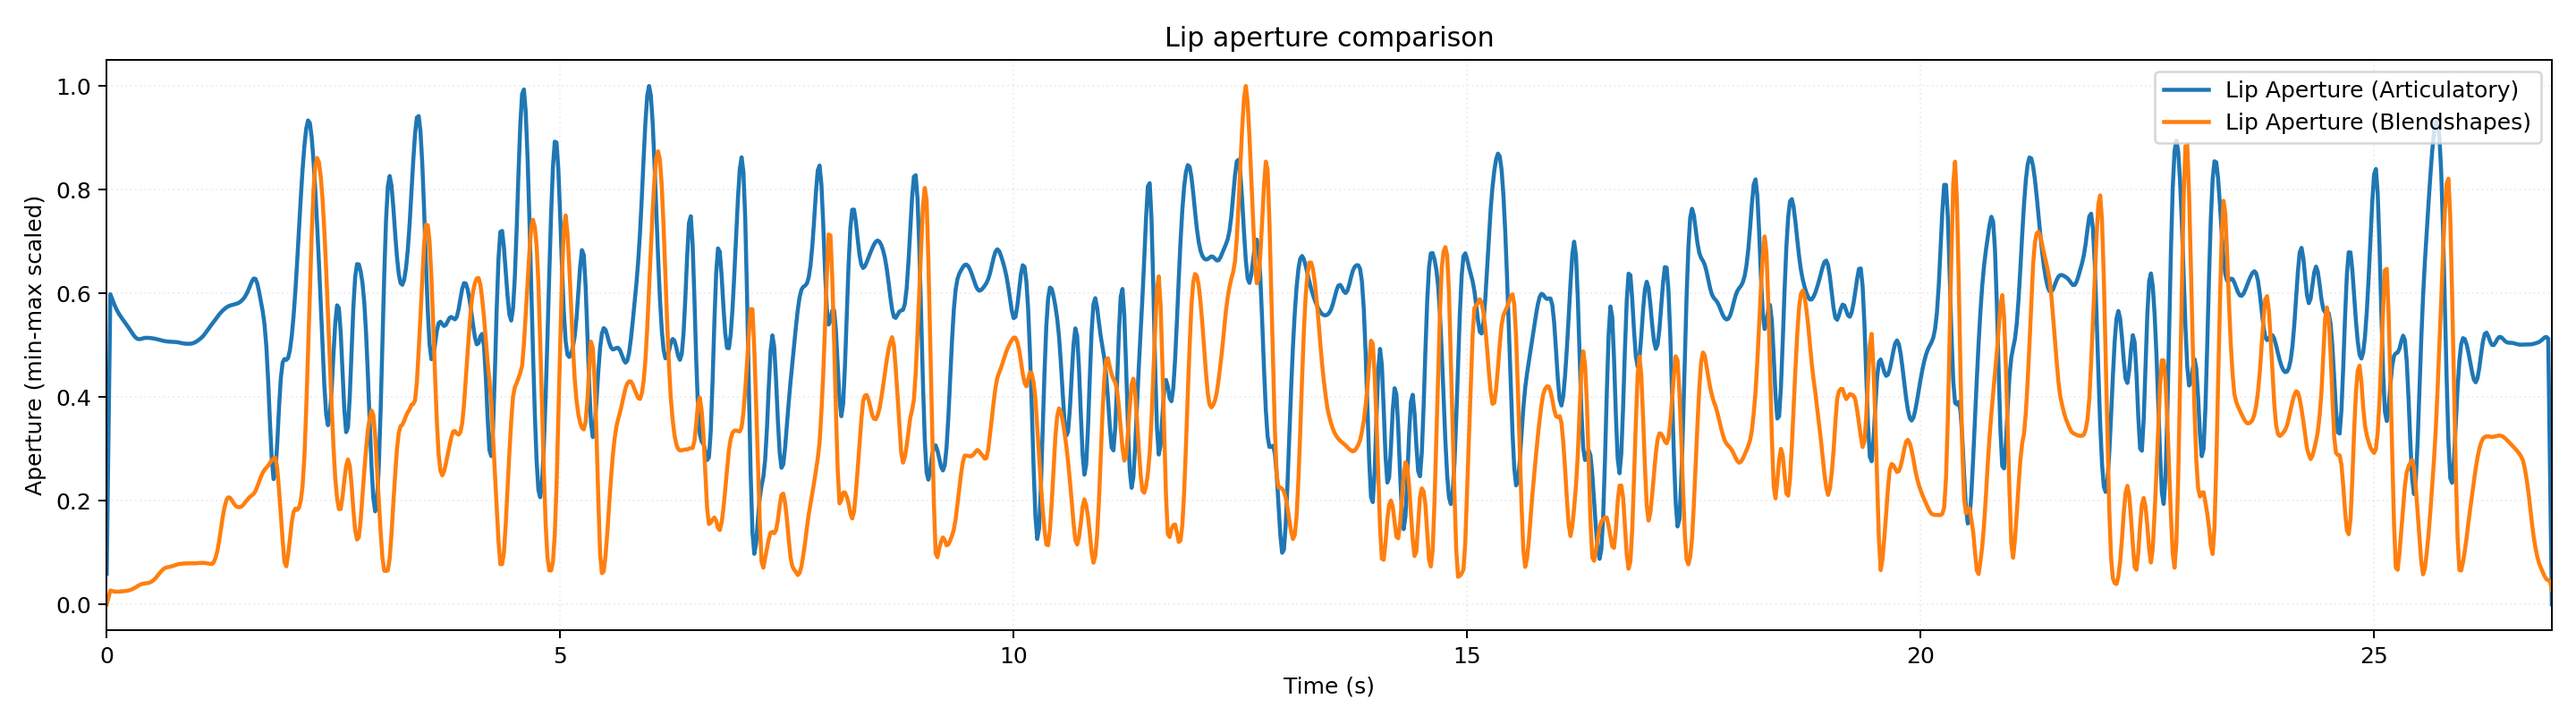
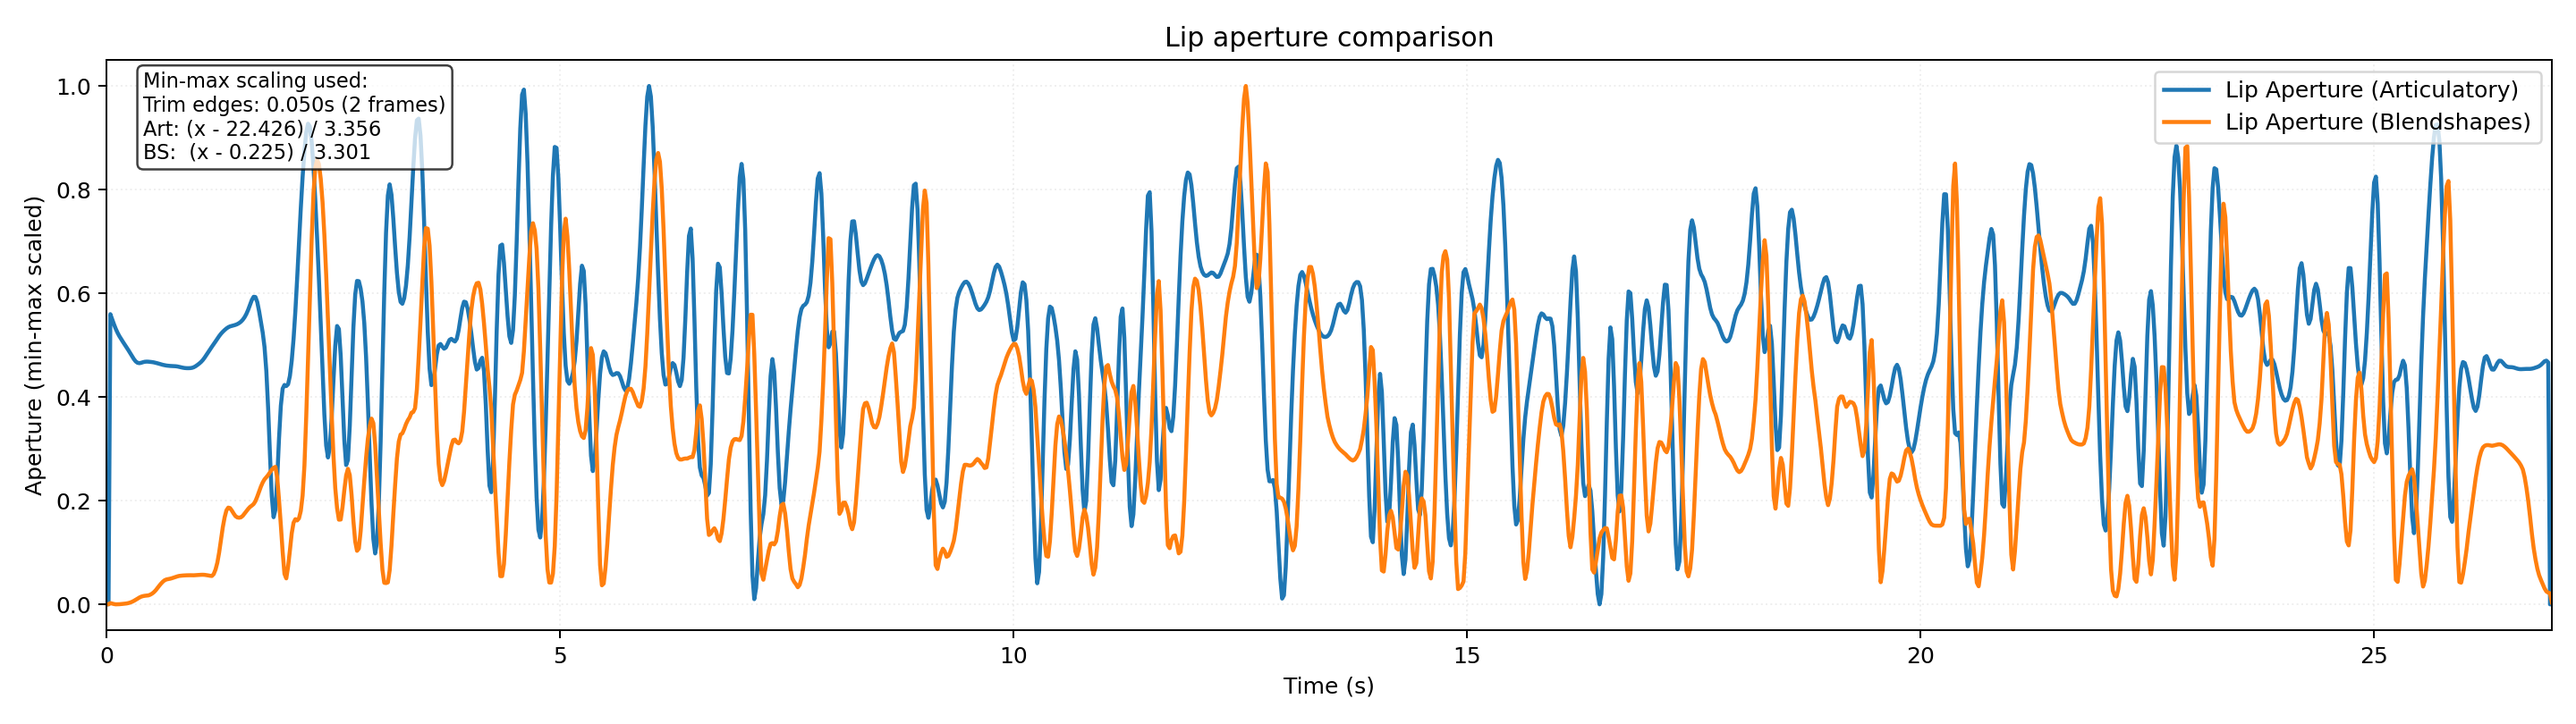
feat(lip-aperture): add manual scaling options, optimize max-min scaling determination for full clip, add output for scaling info, and improve visualization details

diff --git a/tongue_scripts/lip_aperture_textgrid_plot.py b/tongue_scripts/lip_aperture_textgrid_plot.py
@@ -95,10 +95,22 @@ def parse_args() -> argparse.Namespace:
     parser.add_argument("--tongue-fps", type=float, default=50.0, help="Native FPS of .npy sequence (for resampling)")
     parser.add_argument("--beat-fps", type=float, default=60.0, help="Native FPS of BEAT JSON (for resampling)")
     parser.add_argument(
+        "--articulatory-scalar",
+        type=float,
+        default=0.20,
+        help="Scale factor for articulatory displacement magnitude (match generate_tongue_animation.py std_scalar)",
+    )
+    parser.add_argument(
         "--smooth-frames",
         type=int,
         default=5,
         help="Moving-average window (frames), applied to both aperture curves",
+    )
+    parser.add_argument(
+        "--scale-edge-trim-seconds",
+        type=float,
+        default=0.05,
+        help="Trim this many seconds from both start and end before computing min-max scale",
     )
     parser.add_argument(
         "--window-start",
@@ -383,7 +395,13 @@ def main() -> None:
             f"Expected mu/std to have at least {NORM_VECTOR_COLS} values, got mu={mu.size}, std={std.size}"
         )
 
-    denorm_motion = raw_motion[:, :NORM_VECTOR_COLS].astype(np.float32) * std[:NORM_VECTOR_COLS] + mu[:NORM_VECTOR_COLS]
+    # Match tongue rendering scale by scaling normalized displacement before adding mean.
+    denorm_motion = (
+        raw_motion[:, :NORM_VECTOR_COLS].astype(np.float32)
+        * std[:NORM_VECTOR_COLS]
+        * float(args.articulatory_scalar)
+        + mu[:NORM_VECTOR_COLS]
+    )
 
     min_required_cols = TONGUE_COORD_COLS + LIP_COORD_COLS
     if denorm_motion.shape[1] < min_required_cols:
@@ -409,8 +427,45 @@ def main() -> None:
     lip_aperture_art = moving_average(lip_aperture_art, args.smooth_frames)
     lip_aperture_bs = moving_average(lip_aperture_bs, args.smooth_frames)
 
-    # Compare in Euclidean space, then apply shared min-max scaling to both curves.
-    lip_aperture_art, lip_aperture_bs = minmax_scale_pair(lip_aperture_art, lip_aperture_bs)
+    # Keep raw Euclidean ranges for display, then min-max scale for comparison plotting.
+    # To avoid edge artifacts (e.g., near-zero starts), estimate min/max on trimmed edges.
+    trim_frames = max(0, int(round(float(args.scale_edge_trim_seconds) * float(args.target_fps))))
+
+    if trim_frames > 0 and len(lip_aperture_art) > 2 * trim_frames:
+        art_ref = lip_aperture_art[trim_frames:-trim_frames]
+    else:
+        art_ref = lip_aperture_art
+    if trim_frames > 0 and len(lip_aperture_bs) > 2 * trim_frames:
+        bs_ref = lip_aperture_bs[trim_frames:-trim_frames]
+    else:
+        bs_ref = lip_aperture_bs
+
+    art_min = float(np.min(art_ref)) if len(art_ref) else 0.0
+    art_max = float(np.max(art_ref)) if len(art_ref) else 0.0
+    bs_min = float(np.min(bs_ref)) if len(bs_ref) else 0.0
+    bs_max = float(np.max(bs_ref)) if len(bs_ref) else 0.0
+    art_range = art_max - art_min
+    bs_range = bs_max - bs_min
+
+    # Scale each curve independently to [0,1] using trimmed-range statistics.
+    if art_range > 1e-8:
+        lip_aperture_art = ((lip_aperture_art - art_min) / art_range).astype(np.float32)
+    else:
+        lip_aperture_art = np.zeros_like(lip_aperture_art, dtype=np.float32)
+    if bs_range > 1e-8:
+        lip_aperture_bs = ((lip_aperture_bs - bs_min) / bs_range).astype(np.float32)
+    else:
+        lip_aperture_bs = np.zeros_like(lip_aperture_bs, dtype=np.float32)
+
+    lip_aperture_art = np.clip(lip_aperture_art, 0.0, 1.0)
+    lip_aperture_bs = np.clip(lip_aperture_bs, 0.0, 1.0)
+
+    scaling_info_text = (
+        "Min-max scaling used:\n"
+        f"Trim edges: {float(args.scale_edge_trim_seconds):.3f}s ({trim_frames} frames)\n"
+        f"Art: (x - {art_min:.3f}) / {art_range:.3f}\n"
+        f"BS:  (x - {bs_min:.3f}) / {bs_range:.3f}"
+    )
 
     # Both are now at target_fps
     t_art = np.arange(len(lip_aperture_art), dtype=np.float32) / float(args.target_fps)
@@ -457,6 +512,16 @@ def main() -> None:
         ax_lip.set_xlabel("Time (s)")
         ax_lip.set_title("Lip aperture comparison")
         ax_lip.set_xlim(window_start, window_end)
+        ax_lip.text(
+            0.015,
+            0.98,
+            scaling_info_text,
+            transform=ax_lip.transAxes,
+            va="top",
+            ha="left",
+            fontsize=9,
+            bbox=dict(boxstyle="round", facecolor="white", alpha=0.75),
+        )
         ax_lip.legend(loc="upper right")
         ax_lip.grid(alpha=0.2, linestyle=":")
     else:
@@ -488,6 +553,16 @@ def main() -> None:
         ax_lip.set_ylabel("Aperture (min-max scaled)")
         ax_lip.set_xlabel("Time (s)")
         ax_lip.set_title("Lip aperture comparison")
+        ax_lip.text(
+            0.015,
+            0.98,
+            scaling_info_text,
+            transform=ax_lip.transAxes,
+            va="top",
+            ha="left",
+            fontsize=9,
+            bbox=dict(boxstyle="round", facecolor="white", alpha=0.75),
+        )
         ax_lip.legend(loc="upper right")
 
         visible_intervals = [
